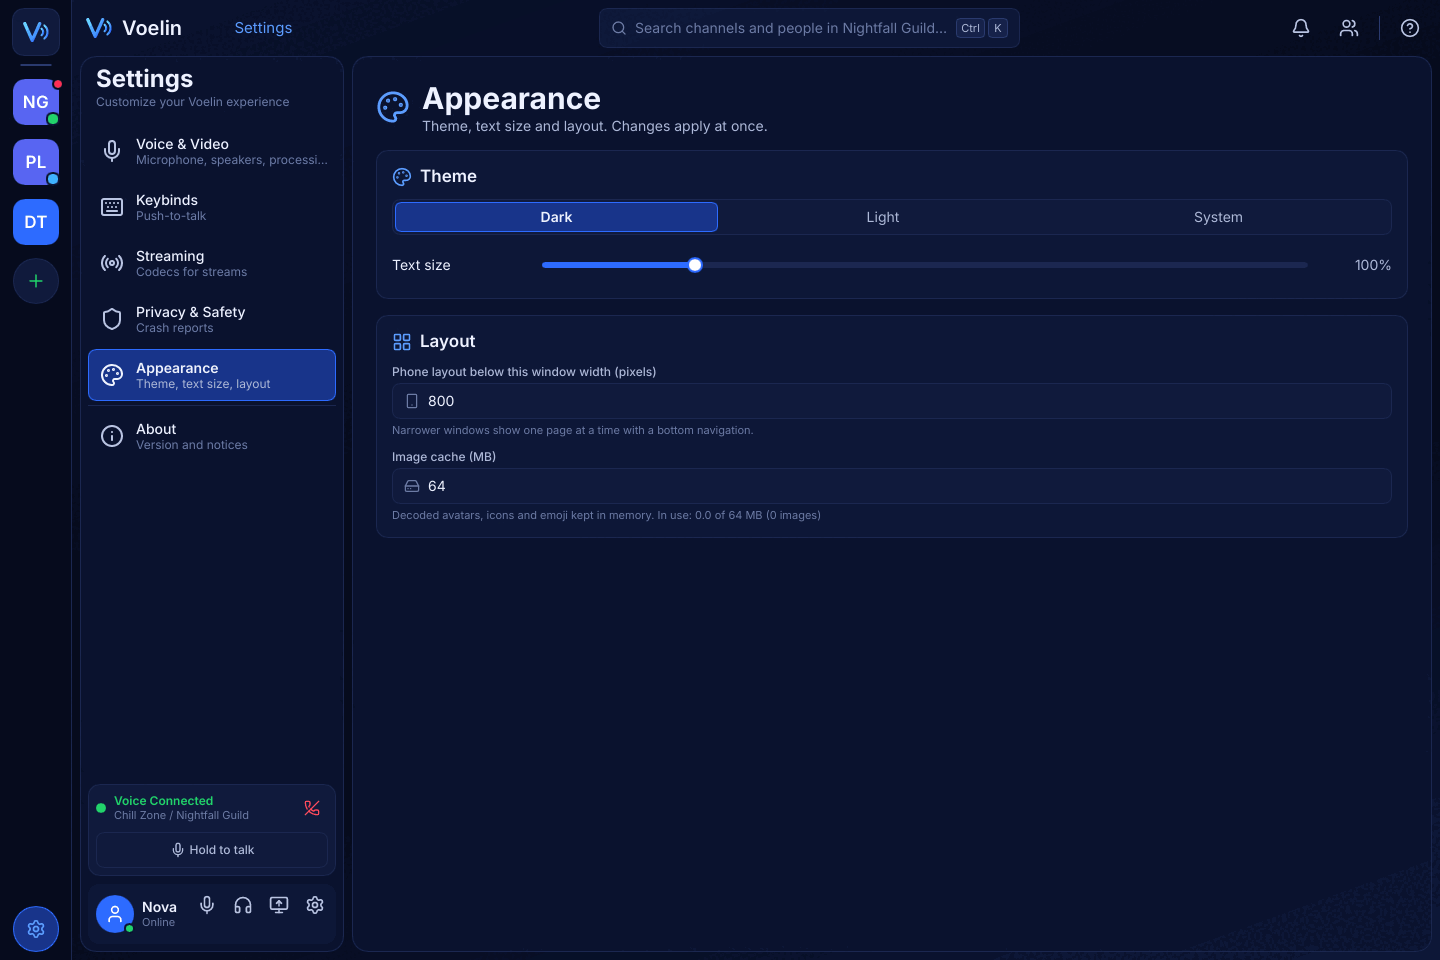
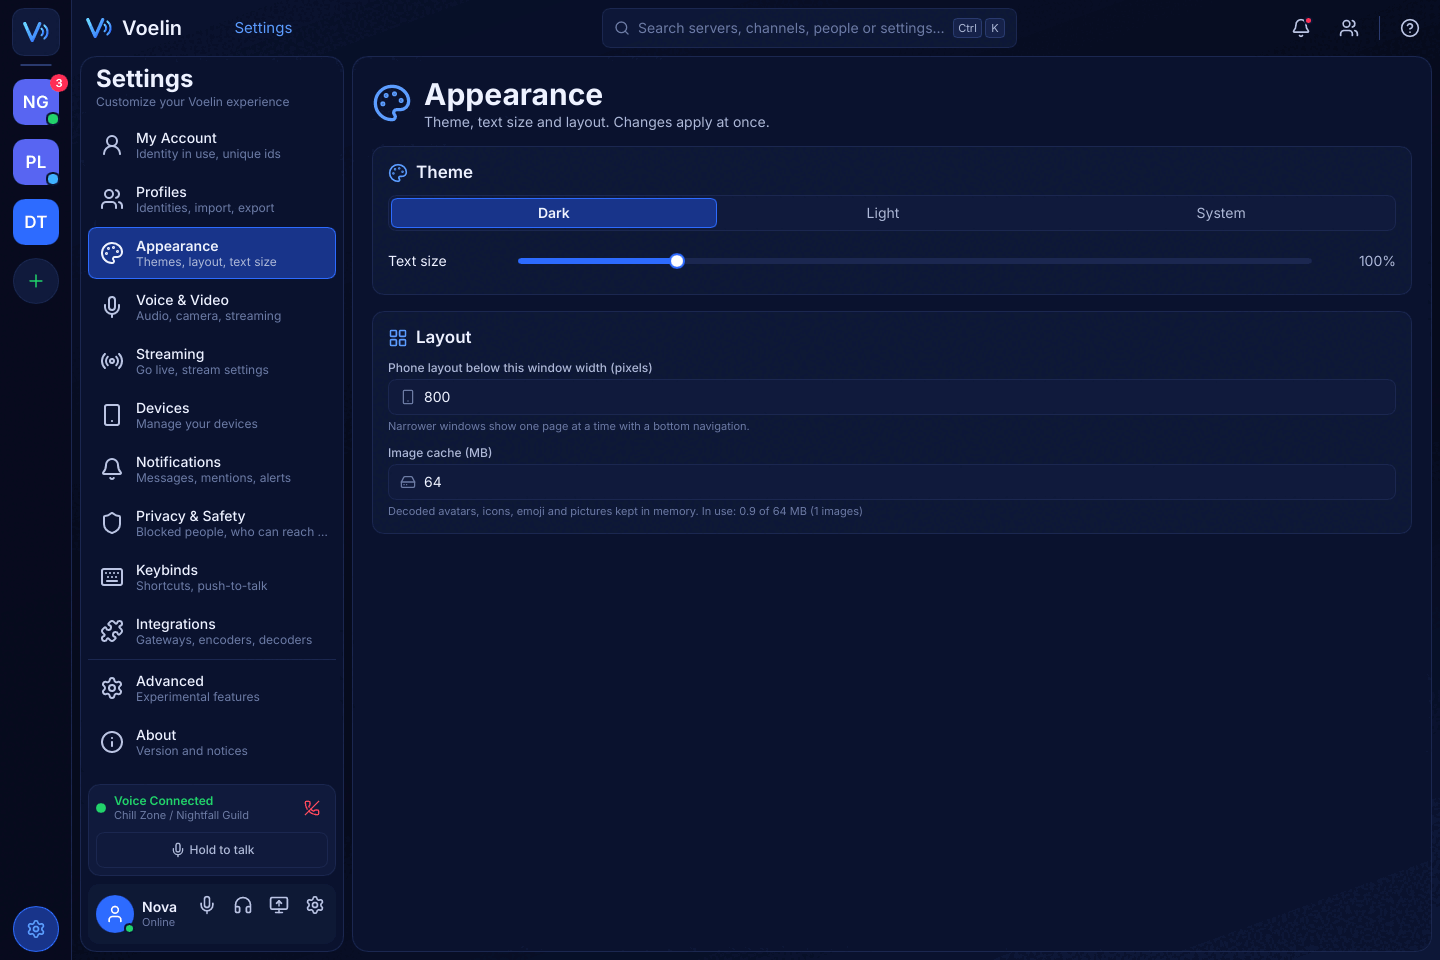
docs/ui.md: home, friends, messages and the settings pages, with pictures
The screens of this wave had no line in docs/ui.md, against the recipe
for adding a screen: what each shows, how it opens headless and which
engine data it reads. They now have a section with a table of the parts
(home, Library, friends, direct messages, the bell, search, events,
pictures in chat, join by address) and one of the settings sections, the
UI's new keys (ui.image_preview_kb, notify.*, video.*, identity.default),
the new VOELIN_OPEN switches, the new files in the structure, and the
limits of mapping the design onto TeamSpeak.

The screenshots of the home, the server page, the light theme and the
settings showed the screens before this wave; they are taken again, and
the new screens (friends, messages, the bell, search, events, Library,
Integrations, Profiles, and on the phone friends, messages, events, the
bell and the streaming settings) are added, all headless with sample
data and reduced to 256 colours.

diff --git a/docs/ui.md b/docs/ui.md
@@ -26,7 +26,10 @@ crates/voelin-ui/
                          navigation), common.slint (Panel, VoiceCard, UserCard, ...)
     screens/             channels, chat, members (panel, card), drawers (pins, topics),
                          voice (the voice channel), streams (viewer; the phone's
-                         panel), settings, home, dialogs, mobile (phone-only pages),
+                         panel), settings, settings-pages (its sections), home,
+                         friends, messages (direct messages), events, overlays
+                         (the bell, the search, a picture), dialogs, mobile and
+                         mobile-voice (phone-only pages),
                          studio-parts (the studio's pieces), studio (its page, its
                          phone layout)
     assets/              fonts/ (Inter, OFL), icons/ (Lucide, ISC), logo.svg
@@ -34,7 +37,10 @@ crates/voelin-ui/
   src/
     app.rs               setup, App state, event dispatch
     servers.rs chat.rs members.rs streams.rs settings_page.rs appearance.rs
-    studio.rs            the logic of each area (studio.rs: the Stream Studio's controller)
+    home.rs social.rs messages.rs events.rs settings_pages.rs previews.rs
+    studio.rs            the logic of each area (social.rs: contacts, the bell and the
+                         search; previews.rs: pictures in chat; studio.rs: the Stream
+                         Studio's controller)
     vm/                  pure view models (engine state → Slint structs), unit-tested
     bind/                callbacks of each area, wired once
     images.rs            the image cache (LRU, bounded by `ui.image_cache_mb`)
@@ -144,6 +150,48 @@ closes the other, and the members button brings the panel back. On the
 phone the chat is the Chat tab and the members of our channel are on the
 Activity tab.
 
+## Home, friends, messages and the settings pages
+
+These follow the design mockups 01 (home, desktop and phone), 02 (direct
+messages), 03 (the links above the channel tree) and 11 (Voice & Video,
+desktop and phone), mapped onto what TeamSpeak has: there is no global
+network, so nothing pretends one. "Friends" are the contacts (friend,
+blocked or neither) and where they are is what the servers we are on (or
+look into) say; "communities" are the user's servers. Nothing here needs
+a gateway; what one adds (events, the stream directory, activity) shows
+where a server has it.
+
+| Part | `VOELIN_OPEN` | What it shows | Engine data |
+|---|---|---|---|
+| Home | `home` | A banner with Voelin and a slide per server (connect, open); friends online (as many whole bubbles as fit, Find Friends after them); live streams on our servers (any channel, the gateways' directories, clients flagged streaming) with viewers, server, channel and kind; our servers with who is there and Join or Open; the latest chats of every server. At the right what friends do, quick actions (find friends, join by address, add a server) and what is happening (gateway events and scheduled streams, soonest first, then server news). The phone has the messages, servers, live streams and recent activity in one column | `FriendPresence`, `ContactsChanged`, `StreamsChanged`, `Gateway` (stream directory, events), `Presence` (the servers' welcome and host messages), `History::recent_chats` |
+| Library | `library` | The Stream Studio's recordings and clips (the files in `studio.recording_dir`, newest first) with Play and Open Folder | the folder |
+| Friends | `friends[:<uid>]` | Online, All and Blocked tabs, a search; each contact with where they are (server, channel, away, live), message, poke, join, watch. The selected one at the right: relation, where, a note, our volume and mute for them, friend, block, forget | `ContactsChanged`, `FriendPresence`; `Command::SetContact`, `RemoveContact`, `Poke`, `MoveToChannel` |
+| Direct messages | `messages[:<uid>]`, `inbox`, `offline` | The private chats of every server and of the store (peers by unique id) with the last message and unread counts, All, Unread and Inbox (offline messages); the conversation with the chat's message list, pokes among the messages, pictures and files, a composer, and a clear state when the peer cannot be reached (an offline message instead, where the server keeps them); the peer at the right: relation, note, the servers they are on, shared pictures and files, our volume for them | `ChatHistory` (`ChatTarget::Private` by unique id), `Command::LoadOlderHistory`, `Poke`, offline messages (`ListOfflineMessages`, `GetOfflineMessage`, `SendOfflineMessage`, `DeleteOfflineMessage`, `SetOfflineMessageRead`) |
+| The bell | `notifications` | Mentions, pokes, private messages, event reminders and friends coming online, newest first, unread marked; Mark all read, clear, the settings. Each kind is off, in the app or also a desktop notification (`notify.*`) | `Chat` and `ChatHistory` (mentions, private messages), `Poke`, `GatewayUpdate::EventReminder`, `FriendPresence`; `voelin_platform::notify` |
+| Search | `search[:<text>]` | Ctrl+K: servers, channels of every server, people (on the servers and the contacts) and the settings pages; arrows choose, Enter opens | the sessions, contacts, bookmarks |
+| Events | `events`, `event-form` | Above the channel tree (gateway `events`): a server's events with date, time, channel, scheduled stream, Going, Maybe and Not going with counts, who answered, reminders, Watch while live; create, edit and delete. Members (above the tree too) opens the members panel | `Gateway` events; `GatewayRequest::Events`, `CreateEvent`, `UpdateEvent`, `DeleteEvent`, `Rsvp` |
+| Pictures in chat | `picture` | A linked png, jpg, gif or webp up to `ui.image_preview_kb` is downloaded into memory, decoded once into the image cache and shown as a card in the message; a click opens it larger | `Command::DownloadChatFile` with `DownloadTo::Memory`, `Transfer` |
+| Join by address | `join` | The add-server dialog that connects once saved | `Command::ConnectVoice` |
+
+Settings sections (`settings:<section>`):
+
+| Section | Holds |
+|---|---|
+| `account` | The identity in use (nickname, TeamSpeak 3 and 6 unique ids, security level) and why there is no myTeamSpeak sign-in |
+| `profiles` | Identities: rename, make default (`identity.default`), export as a TeamSpeak 3 .ini, delete, raise the security level on every core; import from the official clients' settings and .ini files (key material is never shown); the identity per server |
+| `appearance` | Theme, text size, the phone layout's width, the image cache |
+| `voice` | Microphone (device, test, level, noise suppression, echo cancellation, automatic gain), output (device, test sound, volume), streaming permissions, camera (device, preview with the background effect), video settings (resolution, frame rate, codec, hardware acceleration, mirror), stream quality presets with free bitrate entry and the upload it takes |
+| `streaming` | Frame rate, bitrate, codec, capture backend, simulcast layers, the stream's audio sources (desktop without Voelin, applications, the shared window's application, microphone; gain and mute each), recording and replay |
+| `devices` | Microphones, speakers, cameras and what can be shared |
+| `notifications` | Each kind of notification: off, in the app, on the desktop; a test notification |
+| `privacy` | Who may send private messages and poke us, blocked people and what happens to their messages, streaming permissions |
+| `keybinds` | Voice activation, push-to-talk and its global key, the window's shortcuts |
+| `integrations` | The gateways of our servers with their features, and their administration for admins (configuration keys, permission rules); FFmpeg, the video encoders and decoders, what works and why not |
+| `advanced` | Encoder and decoder, hardware acceleration and decoding, SRTP profiles, chat history, cache, transfers, logs and crash reports, and every setting by its key as JSON |
+
+Every control reads and writes `voelin_core::settings` and applies at
+once; numbers are typed freely next to the presets.
+
 ## The Stream Studio
 
 ![Stream Studio](screenshots/desktop-studio-live.png)
@@ -248,6 +296,10 @@ live when they change (settings page, `--set`, another window):
 | `ui.narrow_breakpoint` | pixels | 800 | below this width the phone layout |
 | `ui.image_cache_mb` | megabytes | 64 | decoded images kept in memory (0: none) |
 | `ui.members_width` | pixels | 280 | width of the members panel (dragging its edge sets it) |
+| `ui.image_preview_kb` | kilobytes | 8192 | pictures linked in chat up to this size show as pictures (0: never) |
+| `notify.mentions`, `notify.private_messages`, `notify.pokes`, `notify.event_reminders`, `notify.friends_online` | off / app / desktop | desktop (friends: app) | what the bell and the desktop say about each kind |
+| `video.camera`, `video.background`, `video.resolution`, `video.mirror` | device id; none / blur; auto or WxH; bool | first camera, none, auto, true | the camera of the preview and the default of camera sources |
+| `identity.default` | identity id | 0 (the first) | the identity used where a bookmark names none |
 | `studio.ui` | JSON | see below | the Stream Studio's stream settings: `title`, `game`, `message` (go-live), `show_viewers`, `show_chat`, `show_now_playing`, `audio` (stream audio), `preview_width` (960), `preview_fps` (15) |
 
 In a config file write them as dotted keys at the top level
@@ -281,7 +333,11 @@ Environment variables (see `src/dev.rs`):
   `about`, `share[:live]`, `bookmark[:edit]`, `emoji`, `client`, `panel`, `no-panel`,
   `voice`, `pins`, `topics`, `topic:<id>`, `member`, `watch`, `popout`
   (the server page, above), `tab:<home|servers|chat|activity|you>` (phone
-  layout). With sample data, `watch` plays the local test pattern in the
+  layout); `friends[:<uid>]`, `messages[:<uid>]`, `inbox`, `offline`,
+  `library`, `events`, `event-form`, `search[:<text>]`, `notifications`,
+  `join`, `picture`, `camera` (the settings' camera preview, the test
+  pattern) and the settings sections `account`, `profiles`, `devices`,
+  `notifications`, `integrations`, `advanced` (above). With sample data, `watch` plays the local test pattern in the
   sample stream's place. `studio[:window|live|record|source|audio|camera|scene|settings]`
   opens the Stream Studio (above) in that state; with its window open a
   screenshot also saves the window alone (`<name>-window.png`) and draws it
@@ -334,10 +390,18 @@ the window's size so the pointer is not over the window, and passes
 | ![share](screenshots/desktop-share-dialog.png) | ![sharing](screenshots/desktop-share-live.png) |
 | ![add server](screenshots/desktop-add-server.png) | ![about](screenshots/desktop-about.png) |
 
+| Home, friends, messages | |
+|---|---|
+| ![friends](screenshots/desktop-friends.png) | ![direct messages](screenshots/desktop-messages.png) |
+| ![the bell](screenshots/desktop-notifications.png) | ![search](screenshots/desktop-search.png) |
+| ![events](screenshots/desktop-events.png) | ![library](screenshots/desktop-library.png) |
+| ![integrations](screenshots/desktop-settings-integrations.png) | ![profiles](screenshots/desktop-settings-profiles.png) |
+
 | Phone layout | | | | |
 |---|---|---|---|---|
 | ![chat](screenshots/mobile-chat.png) | ![servers](screenshots/mobile-servers.png) | ![home](screenshots/mobile-home.png) | ![you](screenshots/mobile-you.png) | ![settings](screenshots/mobile-settings.png) |
 | ![voice channel](screenshots/mobile-voice.png) | ![activity](screenshots/mobile-activity.png) | ![studio](screenshots/mobile-studio.png) | ![share](screenshots/mobile-share.png) | ![sharing](screenshots/mobile-share-live.png) |
+| ![friends](screenshots/mobile-friends.png) | ![messages](screenshots/mobile-messages.png) | ![events](screenshots/mobile-events.png) | ![the bell](screenshots/mobile-notifications.png) | ![streaming settings](screenshots/mobile-settings-streaming.png) |
 | ![add server](screenshots/mobile-add-server.png) | | | | |
 
 ## Limits
@@ -366,3 +430,14 @@ the window's size so the pointer is not over the window, and passes
   the model does not load). The
   studio cannot be detached on Android (one window). Its own window shows
   no toasts; status messages go to the main window.
+- Home, friends and messages show what the user's servers tell: there is
+  no global network behind TeamSpeak, so the design's Discover, other
+  communities with member counts, the games friends play and the upgrade
+  panels are left out, and a friend shows as online only on servers we
+  are on or look into.
+- Direct messages need a voice connection to the peer's server; the
+  design's calls, groups, requests, voice messages and reactions in
+  private chats have no TeamSpeak counterpart.
+- On the phone the settings are a list on the You tab and a section
+  picker inside them, not the design's list beside the page (too narrow
+  for most sections at a phone's width).
